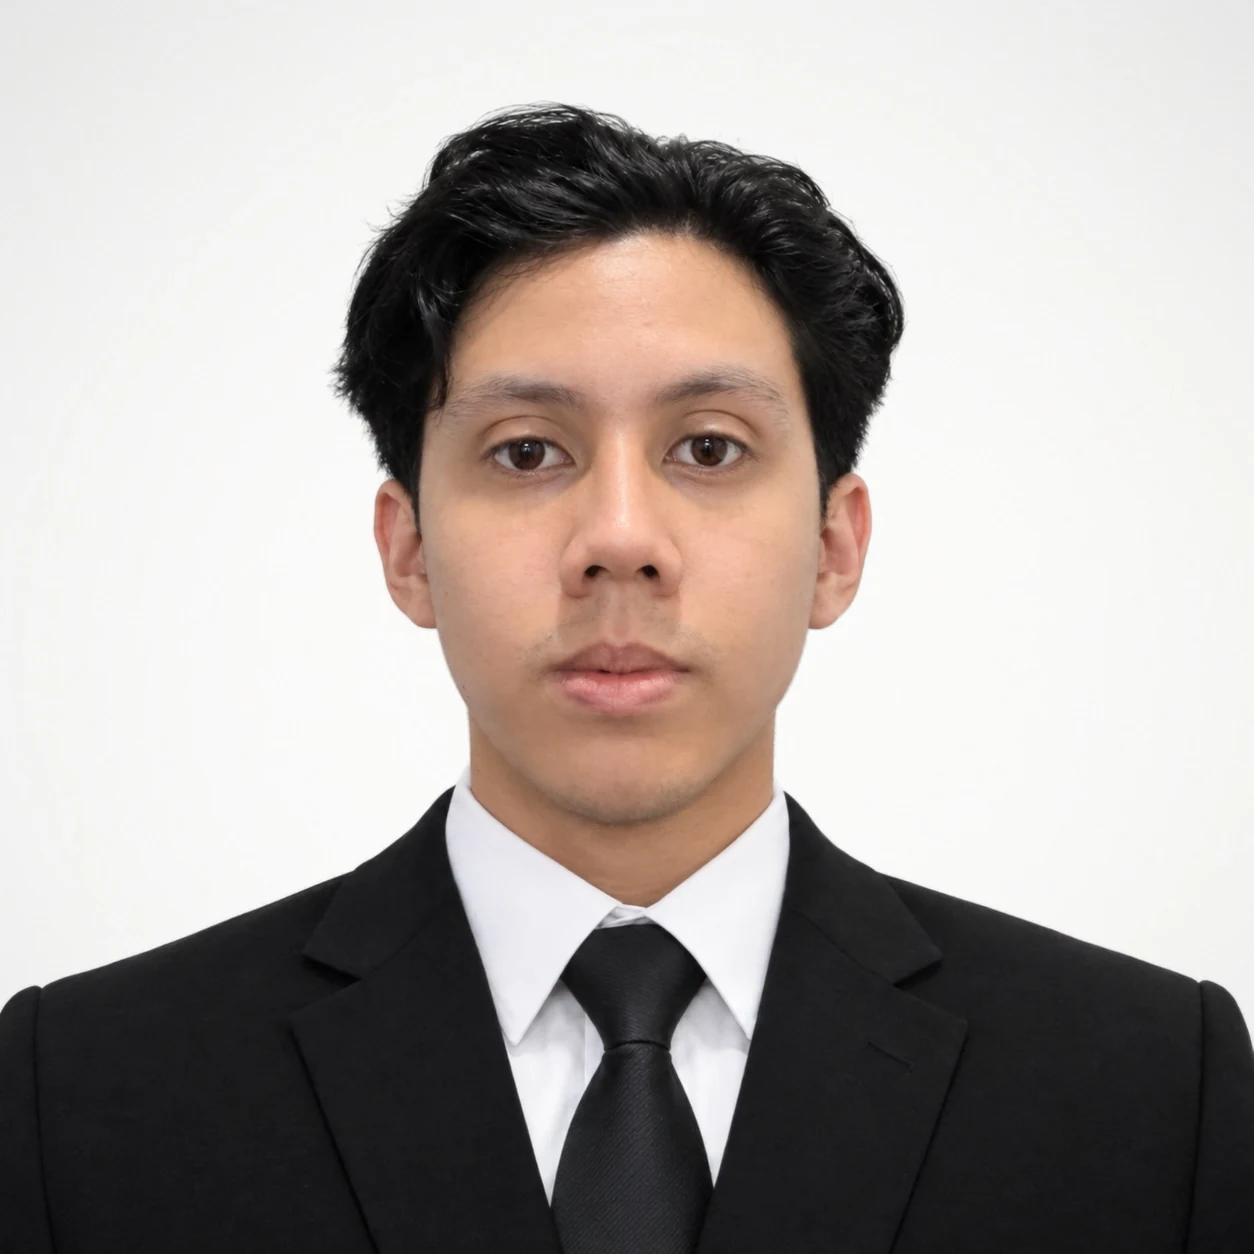
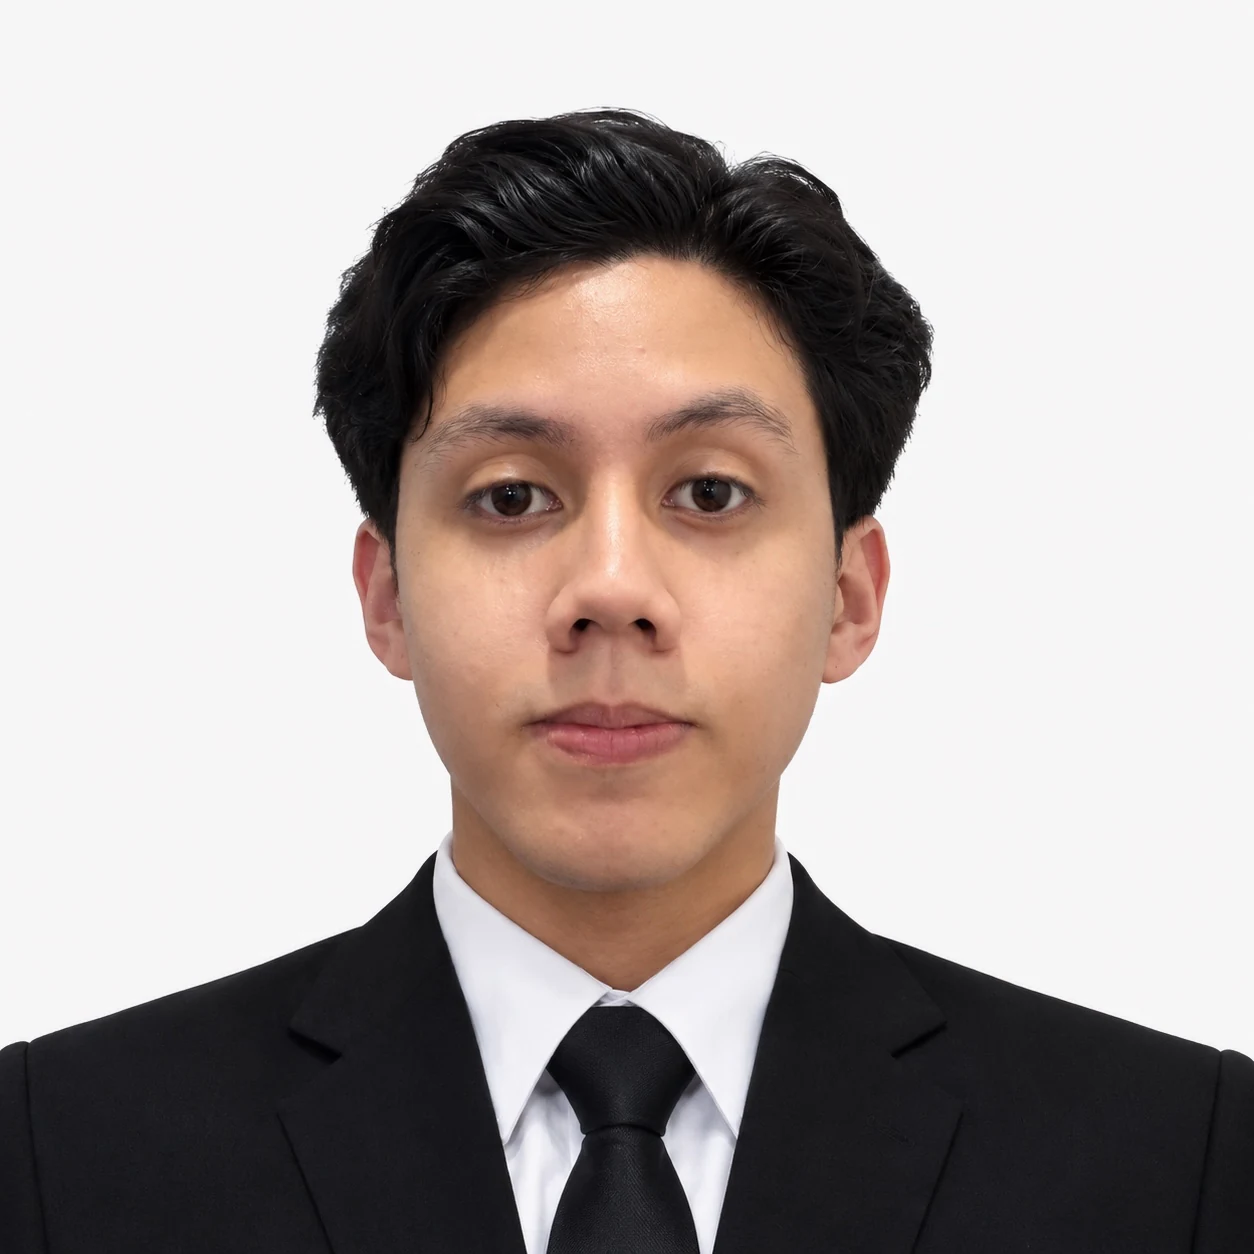
Use the smiling take of his formal headshot on About (#15)
At Zariff's request the About photo is now the take of his formal
headshot where he smiles a little, in place of the one shipped in #14.

- src/Assets/me-1254.webp keeps its name and size: his 1254x1254
  original (src/Assets/formalsmile.jpeg), uncropped and re-encoded as
  WebP q88, 66,350 bytes, a single VP8 chunk with no EXIF, XMP, ICC
  profile or GPS. Vite gives it a new hashed name, so no cache keeps
  serving the previous take.
- formalsmile.jpeg is gitignored next to formal_pic.jpeg, the earlier
  take; both carry the editing app's EXIF and stay local. CLAUDE.md's
  photo paragraph names the new original.

Changed region(s): [[0.0, 0.0622, 1.0, 1.0], [0.7153, 0.8086, 0.7464, 0.8397]]

diff --git a/CLAUDE.md b/CLAUDE.md
@@ -72,4 +72,4 @@ No Bootstrap and no `!important` anywhere. Components read design tokens only.
 - `public/sitemap.xml`: bump `lastmod` for the routes a change touches (it also lists `/Zariff-Danial-Resume.pdf`; bump that when the resume changes)
 - Resume: edit [tools/resume/resume.html](tools/resume/resume.html) (single column, real text, no letter-spacing, dates as "Mon YYYY to Mon YYYY"), then `node tools/resume/build.js` to regenerate `public/Zariff-Danial-Resume.pdf` and `node tools/resume/check.js` to confirm it still parses in reading order on one page. The build needs `playwright` (it uses the installed Chrome) and `pdf-lib`, both devDependencies, and exits non-zero if either is missing; it writes a tagged PDF with a bookmark outline and sets Title, Author, Subject, Keywords and the document language. `check.js` reports the page count (one is the target, two the ceiling), the metadata and every link, and fails on parsing problems, an empty Title or Author, a missing document language, an untagged PDF or section headings out of reading order; it loads the ESM-only `pdfjs-dist/legacy/build/pdf.mjs` with a dynamic `import()`. The page has only a few pixels of slack, so an edit that adds a line needs a matching cut. The resume scripts are CommonJS because the package has no `"type": "module"`; `tools/qa/sweep.mjs` is ESM. Everything under `tools/` is excluded from lint. Bump `resume.lastUpdated` in both locale files.
 
-Assets are imported as ES modules so Vite fingerprints them at build time; never reference them by URL string. The one deliberate exception is the resume PDF, which lives at `public/Zariff-Danial-Resume.pdf` so shared links to it never go stale. The favicon and icon PNGs, `manifest.json`, `robots.txt`, `sitemap.xml`, `og/*.jpg` and the resume PDF stay in `public/` and are copied to `dist/` verbatim. The About aside opens with the site's only photo of Zariff, `src/Assets/me-1254.webp`, a square formal headshot (black suit and tie on a light grey backdrop) he supplied in October 2026 to replace the earlier casual crop. It is his 1254 px original, uncropped and re-encoded at full size, which covers 3x phones (the photo is about 340 CSS px wide there) and 2x desktops (about 403 px in the aside). That is the most the original allows, so never upscale it. A 1px `var(--line)` ring in `about.css` keeps the photo's rounded edge visible where his black suit meets the dark theme's card. The original, `src/Assets/formal_pic.jpeg`, is gitignored and must stay out of the repository, because it carries its editing app's EXIF (an export comment and an embedded thumbnail, no GPS); the committed WebP was re-encoded with no EXIF, XMP, ICC profile or GPS. Do not add other photos of him, or reuse this one elsewhere (Open Graph, JSON-LD), unless he asks (`src/Assets/me.png`, an older headshot original, is also gitignored). Phone screenshots are WebP (MyTax `pic N.webp`, Silent Support `silent-N.webp`, HalalSaji `halalsaji-1.webp`, the last captured from a web build of the app on its sample data with no certificate numbers on screen) with 300px variants (`pic N-300.webp`, `silent-N-300.webp`, `halalsaji-1-300.webp`) that `PhoneFrame` picks up through `srcSetFor()` in `data/screenshots.js`; regenerate both sizes and re-register if a screenshot changes. The account holder's name on the welcome card of MyTax `pic 3` is filled with the card's own colour in both sizes; any replacement MyTax screenshot must show no name. App icons (`public/icon-*.png`, `apple-touch-icon.png`, `favicon-32.png`) are rendered from the wordmark. `public/og/home.jpg` is the default Open Graph image, a 2400x1260 capture of the home hero in the dark theme taken by hand from the built site, since no script produces it (recapture it when the hero changes, under a new file name if the old one must drop out of link-preview caches); `/bestinet`, `/silent-support` and `/baglock` use their own 1200x630 cards in `public/og/`, generated by `node tools/og/build.cjs` (Playwright with the installed Chrome; it loads the three fonts from Google Fonts, so it needs the network and stops if they do not arrive; `--only=slug` renders one).
+Assets are imported as ES modules so Vite fingerprints them at build time; never reference them by URL string. The one deliberate exception is the resume PDF, which lives at `public/Zariff-Danial-Resume.pdf` so shared links to it never go stale. The favicon and icon PNGs, `manifest.json`, `robots.txt`, `sitemap.xml`, `og/*.jpg` and the resume PDF stay in `public/` and are copied to `dist/` verbatim. The About aside opens with the site's only photo of Zariff, `src/Assets/me-1254.webp`, a square formal headshot with a slight smile (black suit and tie on a light grey backdrop) he supplied in October 2026 to replace the earlier casual crop. It is his 1254 px original, uncropped and re-encoded at full size, which covers 3x phones (the photo is about 340 CSS px wide there) and 2x desktops (about 403 px in the aside). That is the most the original allows, so never upscale it. A 1px `var(--line)` ring in `about.css` keeps the photo's rounded edge visible where his black suit meets the dark theme's card. The original, `src/Assets/formalsmile.jpeg`, is gitignored and must stay out of the repository, because it carries its editing app's EXIF (an export comment and an embedded thumbnail, no GPS), and so is `src/Assets/formal_pic.jpeg`, an earlier take without the smile; the committed WebP was re-encoded with no EXIF, XMP, ICC profile or GPS. Do not add other photos of him, or reuse this one elsewhere (Open Graph, JSON-LD), unless he asks (`src/Assets/me.png`, an older headshot original, is also gitignored). Phone screenshots are WebP (MyTax `pic N.webp`, Silent Support `silent-N.webp`, HalalSaji `halalsaji-1.webp`, the last captured from a web build of the app on its sample data with no certificate numbers on screen) with 300px variants (`pic N-300.webp`, `silent-N-300.webp`, `halalsaji-1-300.webp`) that `PhoneFrame` picks up through `srcSetFor()` in `data/screenshots.js`; regenerate both sizes and re-register if a screenshot changes. The account holder's name on the welcome card of MyTax `pic 3` is filled with the card's own colour in both sizes; any replacement MyTax screenshot must show no name. App icons (`public/icon-*.png`, `apple-touch-icon.png`, `favicon-32.png`) are rendered from the wordmark. `public/og/home.jpg` is the default Open Graph image, a 2400x1260 capture of the home hero in the dark theme taken by hand from the built site, since no script produces it (recapture it when the hero changes, under a new file name if the old one must drop out of link-preview caches); `/bestinet`, `/silent-support` and `/baglock` use their own 1200x630 cards in `public/og/`, generated by `node tools/og/build.cjs` (Playwright with the installed Chrome; it loads the three fonts from Google Fonts, so it needs the network and stops if they do not arrive; `--only=slug` renders one).
